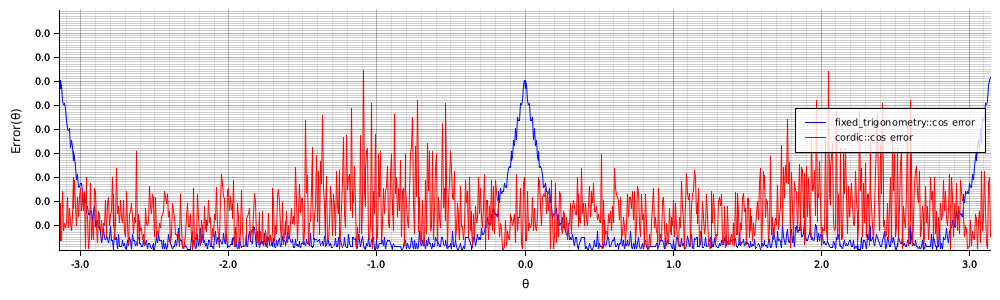
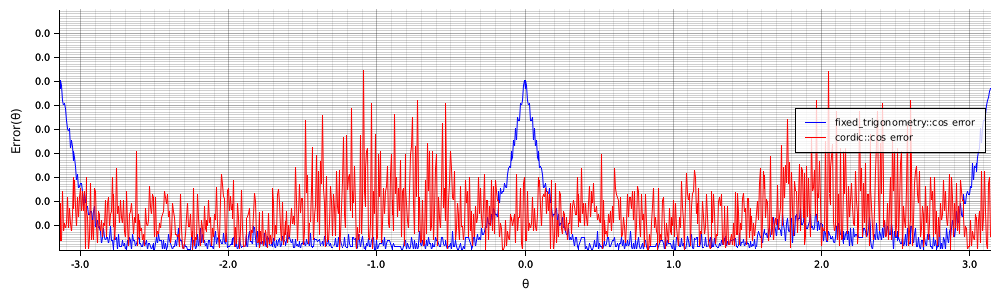
Partial generics obtained with mixed-num trait.

Changed region(s): [[0.744, 0.72, 0.961, 0.84], [0.961, 0.51, 0.992, 0.57], [0.961, 0.63, 0.992, 0.66]]

diff --git a/src/sqrt.rs b/src/sqrt.rs
@@ -1,5 +1,3 @@
-use mixed_num;
-
 /// A fast implementation of the square root using the Nonlinear IIR Filter (NIIRF) method \[1\].
 /// 
 /// Only valid for positive values of x.
@@ -56,78 +54,78 @@ use mixed_num;
 /// 
 /// ![Alt version](https://github.com/ErikBuer/Fixed-Trigonometry/blob/main/figures/sqrt_error_comparison.png?raw=true)
 pub fn niirf<T>( x: T, iterations: usize ) -> T 
-    where T: mixed_num::MixedNum + mixed_num::MixedNumSigned
+    where T: mixed_num::MixedNum + mixed_num::MixedNumSigned + fixed::traits::FixedSigned
 {
-    if x == T::mixed_from_num(0)
+    if x == T::from_num(0)
     {
-        return T::mixed_from_num(0);
+        return T::from_num(0);
     }
 
     // Only works with real numbers.
-    let mut x_ = x.mixed_abs();
+    let mut x_ = x.abs();
 
     // First we normalize x to the range 0.25 =< x < 1.
     let mut norm:i32 = 0; // Number of normalizations.
-    while x_< T::mixed_from_num(0.25)
+    while x_< T::from_num(0.25)
     {
         norm -=1;
-        x_ = x_*T::mixed_from_num(4);
+        x_ = x_<<2;
     }
-    while T::mixed_from_num(1.0) <= x_
+    while T::from_num(1.0) <= x_
     {
         norm +=1;
-        x_ = x_/T::mixed_from_num(4);
+        x_ = x_>>2;
     }
 
     /// LUT for getting the acceleration factor β.
     fn beta<T>( x: T) -> T
-        where T: mixed_num::MixedNum + mixed_num::MixedNumSigned
+        where T: fixed::traits::FixedSigned
     {   
         // There is one β value for each of the 12 regions in the range 4/16 to 16/16.
-        let beta_values = [  T::mixed_from_num(0.961914),
-                                    T::mixed_from_num(0.840332),
-                                    T::mixed_from_num(0.782715),
-                                    T::mixed_from_num(0.734869),
-                                    T::mixed_from_num(0.691406),
-                                    T::mixed_from_num(0.654297),
-                                    T::mixed_from_num(0.622070),
-                                    T::mixed_from_num(0.595215),
-                                    T::mixed_from_num(0.573731),
-                                    T::mixed_from_num(0.556152),
-                                    T::mixed_from_num(0.516113),
-                                    T::mixed_from_num(0.502930)];
+        let beta_values = [ T::from_num(0.961914),
+                            T::from_num(0.840332),
+                            T::from_num(0.782715),
+                            T::from_num(0.734869),
+                            T::from_num(0.691406),
+                            T::from_num(0.654297),
+                            T::from_num(0.622070),
+                            T::from_num(0.595215),
+                            T::from_num(0.573731),
+                            T::from_num(0.556152),
+                            T::from_num(0.516113),
+                            T::from_num(0.502930)];
 
-        if x < T::mixed_from_num(5.0/16.0) {
+        if x < T::from_num(5.0/16.0) {
             return beta_values[0];
         }
-        else if x < T::mixed_from_num(6.0/16.0) {
+        else if x < T::from_num(6.0/16.0) {
             return beta_values[1];
         }
-        else if x < T::mixed_from_num(7.0/16.0) {
+        else if x < T::from_num(7.0/16.0) {
             return beta_values[2];
         }
-        else if x < T::mixed_from_num(8.0/16.0) {
+        else if x < T::from_num(8.0/16.0) {
             return beta_values[3];
         }
-        else if x < T::mixed_from_num(9.0/16.0) {
+        else if x < T::from_num(9.0/16.0) {
             return beta_values[4];
         }
-        else if x < T::mixed_from_num(10.0/16.0) {
+        else if x < T::from_num(10.0/16.0) {
             return beta_values[5];
         }
-        else if x < T::mixed_from_num(11.0/16.0) {
+        else if x < T::from_num(11.0/16.0) {
             return beta_values[6];
         }
-        else if x < T::mixed_from_num(12.0/16.0) {
+        else if x < T::from_num(12.0/16.0) {
             return beta_values[7];
         }
-        else if x < T::mixed_from_num(13.0/16.0) {
+        else if x < T::from_num(13.0/16.0) {
             return beta_values[8];
         }
-        else if x < T::mixed_from_num(14.0/16.0) {
+        else if x < T::from_num(14.0/16.0) {
             return beta_values[9];
         }
-        else if x < T::mixed_from_num(15.0/16.0) {
+        else if x < T::from_num(15.0/16.0) {
             return beta_values[10];
         }
         else {
@@ -136,20 +134,20 @@ pub fn niirf<T>( x: T, iterations: usize ) -> T
     }
 
     // Estimate the square root for x, when 0.25 =< x < 1.
-    let mut y = (T::mixed_from_num(2)*x_)/T::mixed_from_num(3) + T::mixed_from_num(0.354167);   // y0
+    let mut y = (T::from_num(2)*x_)/T::from_num(3) + T::from_num(0.354167);   // y0
     for _n in 1..iterations
     {
-        y = beta(x_)*(x_-y.mixed_powi(2))+y;
+        y = beta(x_)*(x_-super::powi(y,2))+y;
     }
 
     // Denormalize the solution.
     if 0 < norm
     {
-        y = y*T::mixed_from_num(2).mixed_powi(norm as i32);
+        y = y<<norm as u32;
     }
     else if norm < 0
     {
-        y = y/T::mixed_from_num(2).mixed_powi(norm as i32);
+        y = y>>norm.abs() as u32;
     }
     return y;
 }

diff --git a/src/fft.rs b/src/fft.rs
@@ -126,10 +126,10 @@ fn bitreverse_order<T>( arr: &mut [Complex<T>] )
 ///                         Complex::<F<U>>::new(F::<U>::from_num(-0.000000007),    F::<U>::from_num(0.25073779)   )] );
 /// ```
 pub fn fft<T>( array: &mut [Complex<T>] )
-    where T: mixed_num::MixedNum + mixed_num::MixedNumSigned + cordic::CordicNumber
+    where T: mixed_num::MixedNum + mixed_num::MixedNumSigned + FixedSigned + cordic::CordicNumber
 {
     // Process fft.
-    fft_processor(array, T::mixed_from_num(1));
+    fft_processor(array, T::from_num(1));
 
     // Decimation-in-freqency.
     bitreverse_order(array); // Bitreverse order
@@ -168,10 +168,10 @@ pub fn fft<T>( array: &mut [Complex<T>] )
 ///                         Complex::<F<U>>::new(F::<U>::from_num(0.00000001),   F::<U>::from_num(-0.2507378) )] );
 /// ```
 pub fn ifft<T>( vec: &mut Vec<Complex<T>> )
-    where T: mixed_num::MixedNum + mixed_num::MixedNumSigned + cordic::CordicNumber
+    where T: mixed_num::MixedNum + mixed_num::MixedNumSigned + FixedSigned + cordic::CordicNumber
 {
     // Process fft.
-    fft_processor(vec, T::mixed_from_num(-1));
+    fft_processor(vec, T::from_num(-1));
     // Decimation-in-freqency.
     bitreverse_order(vec); // Bitreverse order
 }
@@ -185,7 +185,7 @@ pub fn ifft<T>( vec: &mut Vec<Complex<T>> )
 /// * `w` - twiddle factor.
 /// 
 fn butterfly_df<T>( a: &mut Complex<T>, b: &mut Complex<T>, w:Complex<T> )
-    where T: mixed_num::MixedNum + mixed_num::MixedNumSigned + cordic::CordicNumber
+    where T: mixed_num::MixedNum + mixed_num::MixedNumSigned +FixedSigned + cordic::CordicNumber
 {
     let temp_a = crate::complex::add(*a,*b);
     //  let temp_b = complex::mul_cartesian(complex::sub(*a, complex::scale_cartesian(T::from_num(2), *b)), w);
@@ -198,7 +198,7 @@ fn butterfly_df<T>( a: &mut Complex<T>, b: &mut Complex<T>, w:Complex<T> )
 /// Shared fft processor for fft and ifft.
 /// Requires bit-reversion afterwards.
 fn fft_processor<T>( array: &mut [Complex<T>], dir: T )
-    where T: mixed_num::MixedNum + mixed_num::MixedNumSigned + cordic::CordicNumber
+    where T: mixed_num::MixedNum + mixed_num::MixedNumSigned + FixedSigned + cordic::CordicNumber
 {
     let n = array.len();
 
@@ -206,9 +206,9 @@ fn fft_processor<T>( array: &mut [Complex<T>], dir: T )
     let mut w = Vec::<Complex<T>>::with_capacity(n/2);
 
     // Calculate Twiddle factor W.
-    w.push( Complex::new( <T>::mixed_from_num(1), <T>::mixed_from_num(0) ) );
+    w.push( Complex::new( <T>::from_num(1), <T>::from_num(0) ) );
 
-    let angle:T = (dir*-<T>::mixed_from_num(2)) /(T::mixed_from_num(2).mixed_powi(log2(n) as i32));
+    let angle:T = (dir*-<T>::from_num(fixed::consts::TAU)) >> log2(n) as u32;
     let mut phase_inc = angle;
     for _i in 1..n/2
     {
@@ -242,8 +242,8 @@ fn fft_processor<T>( array: &mut [Complex<T>], dir: T )
             for j in 0..num_butt
             {
                 // Scale values to avoid overflow.
-                let mut a = crate::complex::div_cartesian( array[pa+j], T::mixed_from_num(2.0) );
-                let mut b = crate::complex::div_cartesian( array[pb+j], T::mixed_from_num(2.0) );
+                let mut a = crate::complex::div_cartesian( array[pa+j], T::from_num(2.0) );
+                let mut b = crate::complex::div_cartesian( array[pb+j], T::from_num(2.0) );
                 let w_temp = w[ stage*j ];
                 
                 butterfly_df( &mut a, &mut b, w_temp );

diff --git a/src/lib.rs b/src/lib.rs
@@ -88,7 +88,6 @@ pub fn sign<T>( x:T ) -> T
         return T::from_num(1);
     }
 }
-
 /// Calculate sin(x) using a Taylor approximation of `sin(x)`.
 /// 
 /// Sin is calculated using the following polynomial:
@@ -132,29 +131,29 @@ pub fn sign<T>( x:T ) -> T
 /// ![Alt version](https://github.com/ErikBuer/Fixed-Trigonometry/blob/main/figures/cordic_poly_sine_error_comparison.png?raw=true)
 /// 
 pub fn sin<T>( x: T ) -> T
-    where T: mixed_num::MixedNum + mixed_num::MixedNumSigned
+    where T: fixed::traits::FixedSigned + mixed_num::MixedNum
 {
-    let mixed_pi_half:T = T::mixed_pi()/T::mixed_from_num(2);
+    let pi_half:T = <T>::from_num(fixed::consts::PI/2);
 
     let mut x_: T = x;
 
     // Ensure that the angle is within the accurate range of the tailor series. 
-    if x_ < -mixed_pi_half
+    if x_ < -pi_half
     {   
-        let delta:T = x+mixed_pi_half;
-        x_ = -mixed_pi_half+delta.mixed_abs();
+        let delta:T = x+pi_half;
+        x_ = -pi_half+delta.abs();
     }
-    else if mixed_pi_half < x
+    else if pi_half < x
     {
-        let delta:T = x-mixed_pi_half;
-        x_ = mixed_pi_half-delta.mixed_abs();
+        let delta:T = x-pi_half;
+        x_ = pi_half-delta.abs();
     }
 
     // Calculate sine by using 
-    let mut sinx = x_-( x.mixed_powi(3)/T::mixed_from_num(6) );
-    sinx += x.mixed_powi(5)/T::mixed_from_num(120);
-    sinx -= (x.mixed_powi(7)/T::mixed_from_num(315)) / T::mixed_from_num(16);
-    sinx += (((x.mixed_powi(9)/T::mixed_from_num(81))/<T>::mixed_from_num(7))/T::mixed_from_num(5)) / T::mixed_from_num(128);
+    let mut sinx = x_-( powi(x_,3)/<T>::from_num(6) );
+    sinx += powi(x_,5)/<T>::from_num(120);
+    sinx -= (powi(x_,7)/<T>::from_num(315)) >> 4;
+    sinx += (((powi(x_,9)/<T>::from_num(81))/<T>::from_num(7))/<T>::from_num(5)) >> 7;
     return sinx;
 }
 
@@ -199,12 +198,12 @@ pub fn sin<T>( x: T ) -> T
 /// ![Alt version](https://github.com/ErikBuer/Fixed-Trigonometry/blob/main/figures/cordic_poly_cos_error_comparison.png?raw=true)
 /// 
 pub fn cos<T>( x: T ) -> T
-    where T: mixed_num::MixedNum + mixed_num::MixedNumSigned
+    where T: fixed::traits::FixedSigned + mixed_num::MixedNum + mixed_num::MixedNumSigned
 {
     // shift to enable use of more accurate sinepolynomial method.
-    let mixed_pi_half = T::mixed_pi()/T::mixed_from_num(2);
+    let pi_half = <T>::from_num(fixed::consts::PI/2);
 
-    let mut x_shifted = x+mixed_pi_half;
+    let mut x_shifted = x+pi_half;
     x_shifted = wrap_phase(x_shifted);
     return sin(x_shifted);
 }

diff --git a/src/complex.rs b/src/complex.rs
@@ -1,8 +1,6 @@
 use super::*;
 
 use num::complex::Complex;
-use fixed::traits::Fixed;
-use fixed::traits::FixedSigned;
 
 /// Cast cartesian complex fixed point number to polar form.
 /// 
@@ -11,7 +9,7 @@ use fixed::traits::FixedSigned;
 /// * `x` - The number transform.
 /// 
 pub fn to_polar<T>( x: Complex<T> ) -> Polar<T>
-    where T:  mixed_num::MixedNum + mixed_num::MixedNumSigned + cordic::CordicNumber
+    where T:  mixed_num::MixedNum + mixed_num::MixedNumSigned + fixed::traits::FixedSigned + cordic::CordicNumber
 {
     let c_polar = Polar::<T>{
         r:     abs(x),
@@ -27,7 +25,7 @@ pub fn to_polar<T>( x: Complex<T> ) -> Polar<T>
 /// * `a` - The argument to apply the function to.
 /// 
 pub fn abs<T>( a: Complex<T> ) -> T
-where T: mixed_num::MixedNum + mixed_num::MixedNumSigned
+where T: mixed_num::MixedNum + mixed_num::MixedNumSigned + fixed::traits::FixedSigned
 {
     let r_sqr = super::powi( a.re, 2) + super::powi( a.im, 2);
     //return r_sqr.sqrt();
@@ -106,7 +104,7 @@ pub fn mul_polar<T>( a: Polar<T>, b: Polar<T> ) -> Polar<T>
 
 /// Multiply two polar numbers by transforming to polar, multiplying and transfomring back.
 pub fn mul_cartesian<T>( a: Complex<T>, b: Complex<T> ) -> Complex<T>
-    where T:  mixed_num::MixedNum + mixed_num::MixedNumSigned + cordic::CordicNumber
+    where T:  mixed_num::MixedNum + mixed_num::MixedNumSigned + fixed::traits::FixedSigned + cordic::CordicNumber
 {
     let a_pol = to_polar(a);
     let b_pol = to_polar(b);

diff --git a/tests/atan_comparison.rs b/tests/atan_comparison.rs
@@ -32,7 +32,7 @@ fn atan2_comparison() -> Result<(), Box<dyn std::error::Error>>
     chart.configure_mesh().draw()?;
 
     let atan2_series = LineSeries::new(
-        (-500..=500).map(|x| x as f32 *PI / 500.0).map(|x| (x, atan::atan2(F::<U>::mixed_from_num(x.sin()), F::<U>::mixed_from_num(x.cos()) ).to_num::<f32>() )),
+        (-500..=500).map(|x| x as f32 *PI / 500.0).map(|x| (x, atan::atan2(F::<U>::from_num(x.sin()), F::<U>::from_num(x.cos()) ).to_num::<f32>() )),
         &RED);
 
     // Draws a sinle line

diff --git a/tests/cos_comparison.rs b/tests/cos_comparison.rs
@@ -1,6 +1,5 @@
 use plotters::prelude::*;
 
-
 /// Plots comparison between various sqrt implementations.
 #[test]
 fn compare_polynomial_cosine() -> Result<(), Box<dyn std::error::Error>> 

diff --git a/tests/sin_comparison.rs b/tests/sin_comparison.rs
@@ -1,6 +1,5 @@
 use plotters::prelude::*;
 
-
 /// Plots comparison between various sqrt implementations.
 #[test]
 fn compare_polynomial_sine() -> Result<(), Box<dyn std::error::Error>> 

diff --git a/tests/sqrt_comparison.rs b/tests/sqrt_comparison.rs
@@ -1,7 +1,6 @@
 use plotters::prelude::*;
 
 
-
 /// Plots comparison error various sqrt implementations.
 #[test]
 fn compare_error_sqrt() -> Result<(), Box<dyn std::error::Error>> 
